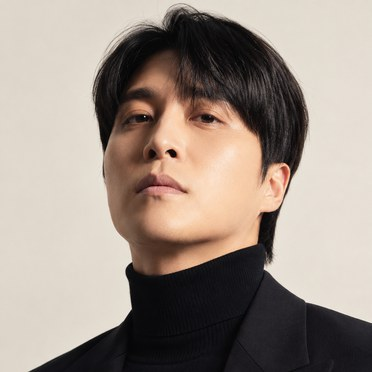
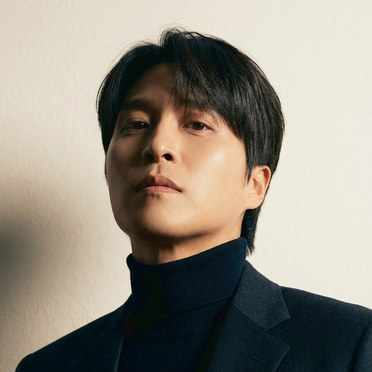
Official artist photos, taller hero, new hero image; drop unused files
- Official artist photos, face-aligned square crops; square corners;
  160px on desktop; 먼데이 키즈 spacing
- Hero height follows the photo ratio but fits the window (min 680px)
- New hero background; text haze at 50%, thin text shadows
- Share image regenerated
- Remove unused originals and the template icons.svg

diff --git a/src/App.css b/src/App.css
@@ -107,9 +107,13 @@
   display: flex;
   align-items: center;
   justify-content: center;
-  /* Fixed height on desktop; the photo covers it and is cropped as needed.
-     (min-height only so the content can never be clipped) */
-  min-height: 680px;
+  /* Grows with the screen at the photo's 2.4:1 ratio up to the photo's own height, but never
+     taller than the window below the 77px header, so the whole hero fits on screen.
+     Never below 680px. (--photo-width / --photo-ratio come from the loaded image in App.tsx) */
+  min-height: max(
+    680px,
+    min(min(100vw, var(--photo-width, 1942px)) / var(--photo-ratio, 2.4), 100svh - 77px)
+  );
   background: var(--navy-900);
   overflow: clip;
 }
@@ -142,12 +146,13 @@
   flex-direction: column;
   align-items: center;
   gap: 18px;
-  padding: 96px var(--gutter) 64px;
+  padding: 72px var(--gutter) 64px;
   text-align: center;
+  /* Soft dark haze behind the text, at 50% opacity */
   background: radial-gradient(
     ellipse 50% 50% at 50% 50%,
-    rgb(1, 15, 62) 0%,
-    rgba(1, 8, 31, 0.5) 50%,
+    rgba(1, 15, 62, 0.5) 0%,
+    rgba(1, 8, 31, 0.25) 50%,
     rgba(0, 0, 0, 0) 100%
   );
 }
@@ -165,7 +170,7 @@
 }
 
 .hero__place {
-  text-shadow: 0 2px 20px #000;
+  text-shadow: 0 1px 3px rgba(0, 0, 0, 0.6);
 }
 
 .hero__divider {
@@ -181,7 +186,8 @@
   line-height: 1.1;
   letter-spacing: -0.03em;
   color: var(--paper);
-  text-shadow: 0 0 14px rgba(11, 16, 48, 0.55), 0 3px 50px #000;
+  /* Tight shadow only: keeps the title readable without a hazy dark cloud behind it */
+  text-shadow: 0 2px 4px rgba(0, 0, 0, 0.6);
 }
 
 .hero__slogan {
@@ -199,7 +205,7 @@
   margin-top: 22px; /* 40px total with the parent gap */
   /* Nudged lower without changing the hero height (position, not transform, so photos stay crisp) */
   position: relative;
-  top: 44px;
+  top: 56px;
 }
 
 .hero__lineup-label {
@@ -233,9 +239,8 @@
 }
 
 .hero__artists img {
-  width: 124px;
-  height: 124px;
-  border-radius: 12px;
+  width: 160px;
+  height: 160px;
   object-fit: cover;
   object-position: top;
 }
@@ -961,12 +966,12 @@
     gap: 12px;
     width: 100%;
     padding: 64px 20px 36px;
-    /* closest-side: fully transparent before it reaches the box edges, so no visible cut */
+    /* Same haze at 50% opacity; closest-side keeps it fully transparent at the edges */
     background: radial-gradient(
       ellipse closest-side at 50% 45%,
-      rgba(1, 15, 62, 0.95) 0%,
-      rgba(1, 15, 62, 0.75) 35%,
-      rgba(1, 15, 62, 0.35) 65%,
+      rgba(1, 15, 62, 0.475) 0%,
+      rgba(1, 15, 62, 0.375) 35%,
+      rgba(1, 15, 62, 0.175) 65%,
       rgba(1, 15, 62, 0) 100%
     );
   }
@@ -976,7 +981,7 @@
     gap: 2px;
     font-size: 15px;
     letter-spacing: 0;
-    text-shadow: 0 4px 12px rgba(0, 0, 0, 0.72);
+    text-shadow: 0 1px 3px rgba(0, 0, 0, 0.7);
   }
 
   .hero__place {
@@ -993,7 +998,7 @@
     line-height: 48.3px;
     letter-spacing: -1.26px;
     white-space: nowrap;
-    text-shadow: 0 0 12px rgba(11, 16, 48, 0.55), 0 3px 24px rgba(0, 0, 0, 0.72);
+    text-shadow: 0 2px 4px rgba(0, 0, 0, 0.6);
   }
 
   .hero__slogan {
@@ -1024,7 +1029,6 @@
   .hero__artists img {
     width: 96px;
     height: 96px;
-    border-radius: 10px;
   }
 
   /* Shared headings */

diff --git a/src/data.ts b/src/data.ts
@@ -26,7 +26,7 @@ export const navItems = [
 ]
 
 // Square, top-cropped photos pre-sized for 1x/2x/3x screens: artist-<slug>-{124,248,372}.jpg
-// (made from artist-<slug>.png; regenerate them when the original is replaced)
+// (face-aligned square crops of the official photos; to replace a photo, crop a new set of all three sizes)
 const artistPhoto = (slug: string) => ({
   image: `${IMAGE_DIR}/artist-${slug}-248.jpg`,
   srcSet: [124, 248, 372].map((w) => `${IMAGE_DIR}/artist-${slug}-${w}.jpg ${w}w`).join(', '),
@@ -34,7 +34,7 @@ const artistPhoto = (slug: string) => ({
 
 export const artists = [
   { name: '우연이', ...artistPhoto('wooyeon') },
-  { name: '먼데이키즈', ...artistPhoto('mondaykiz') },
+  { name: '먼데이 키즈', ...artistPhoto('mondaykiz') },
   { name: '장민호', ...artistPhoto('jangminho') },
 ]
 
@@ -97,7 +97,7 @@ export const waves: Wave[] = [
     items: [
       { title: '축하 공연', time: '17:00 ~ 18:00', detail: '축하 공연' },
       { title: '개막식', time: '18:00 ~ 18:30', detail: '개막 퍼포먼스' },
-      { title: '용연 음악회', time: '18:30 ~ 21:00', detail: '어린이합창단, 고강민, 우연이, 먼데이키즈, 장민호' },
+      { title: '용연 음악회', time: '18:30 ~ 21:00', detail: '어린이합창단, 고강민, 우연이, 먼데이 키즈, 장민호' },
     ],
   },
 ]

diff --git a/src/App.tsx b/src/App.tsx
@@ -87,10 +87,10 @@ function Hero() {
                 <img
                   src={artist.image}
                   srcSet={artist.srcSet}
-                  sizes="(max-width: 768px) 96px, 124px"
+                  sizes="(max-width: 768px) 96px, 160px"
                   alt={artist.name}
-                  width={124}
-                  height={124}
+                  width={160}
+                  height={160}
                 />
                 <span>{artist.name}</span>
               </li>
